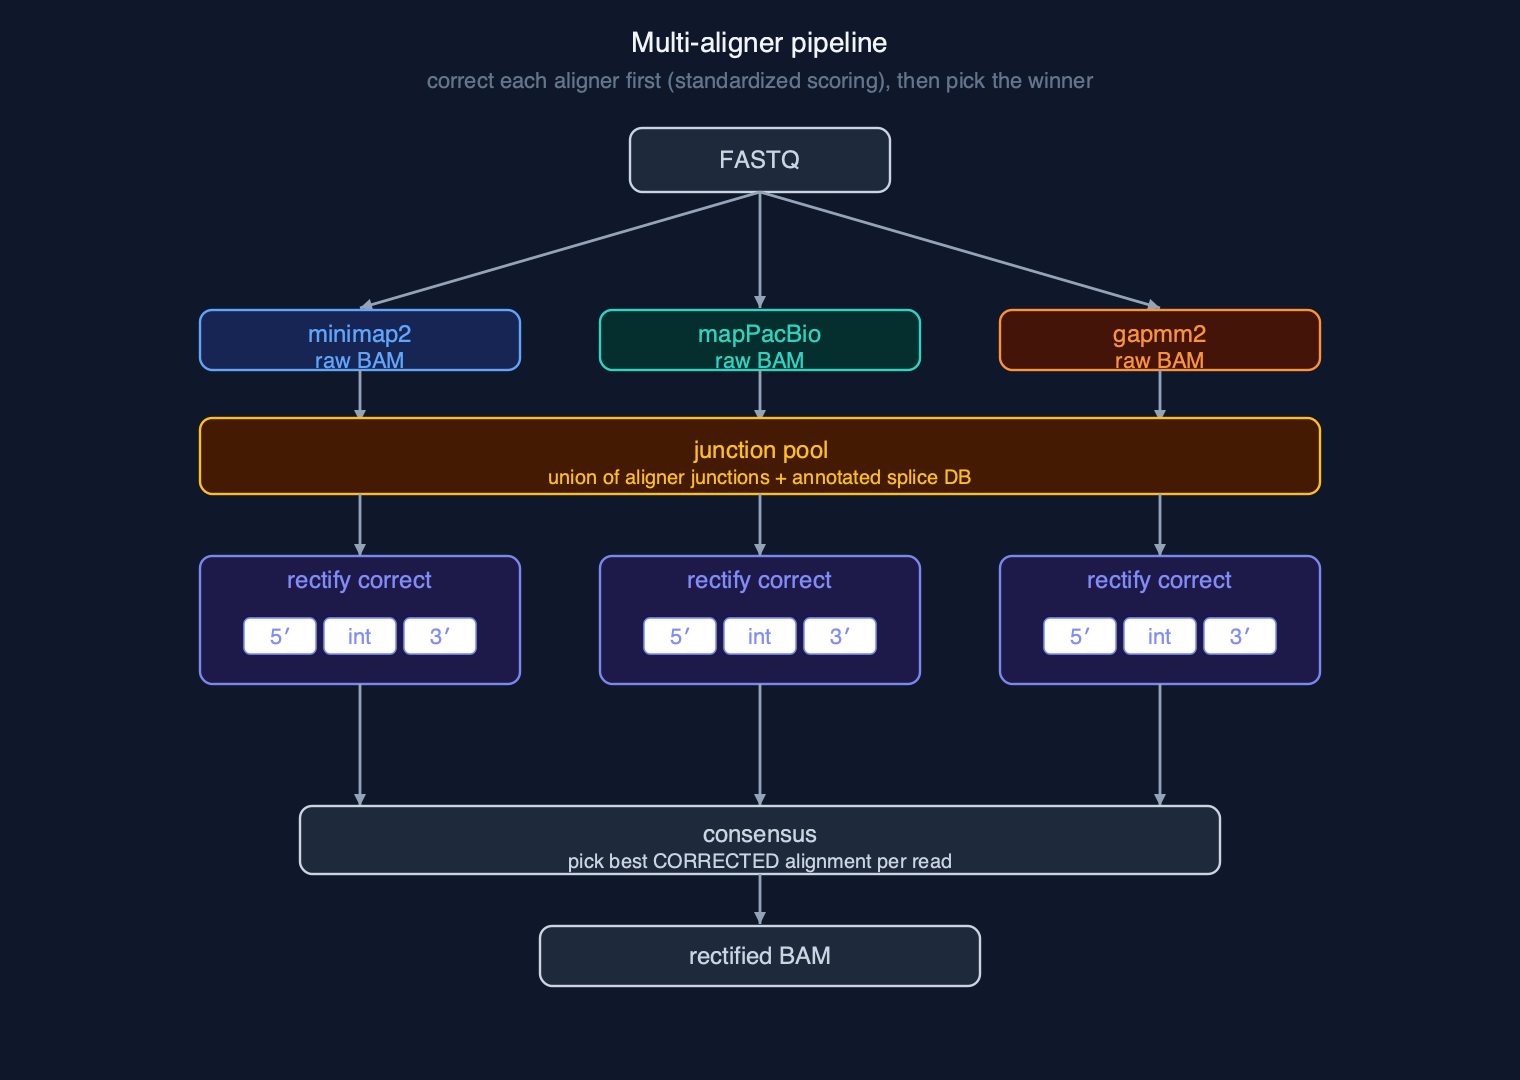
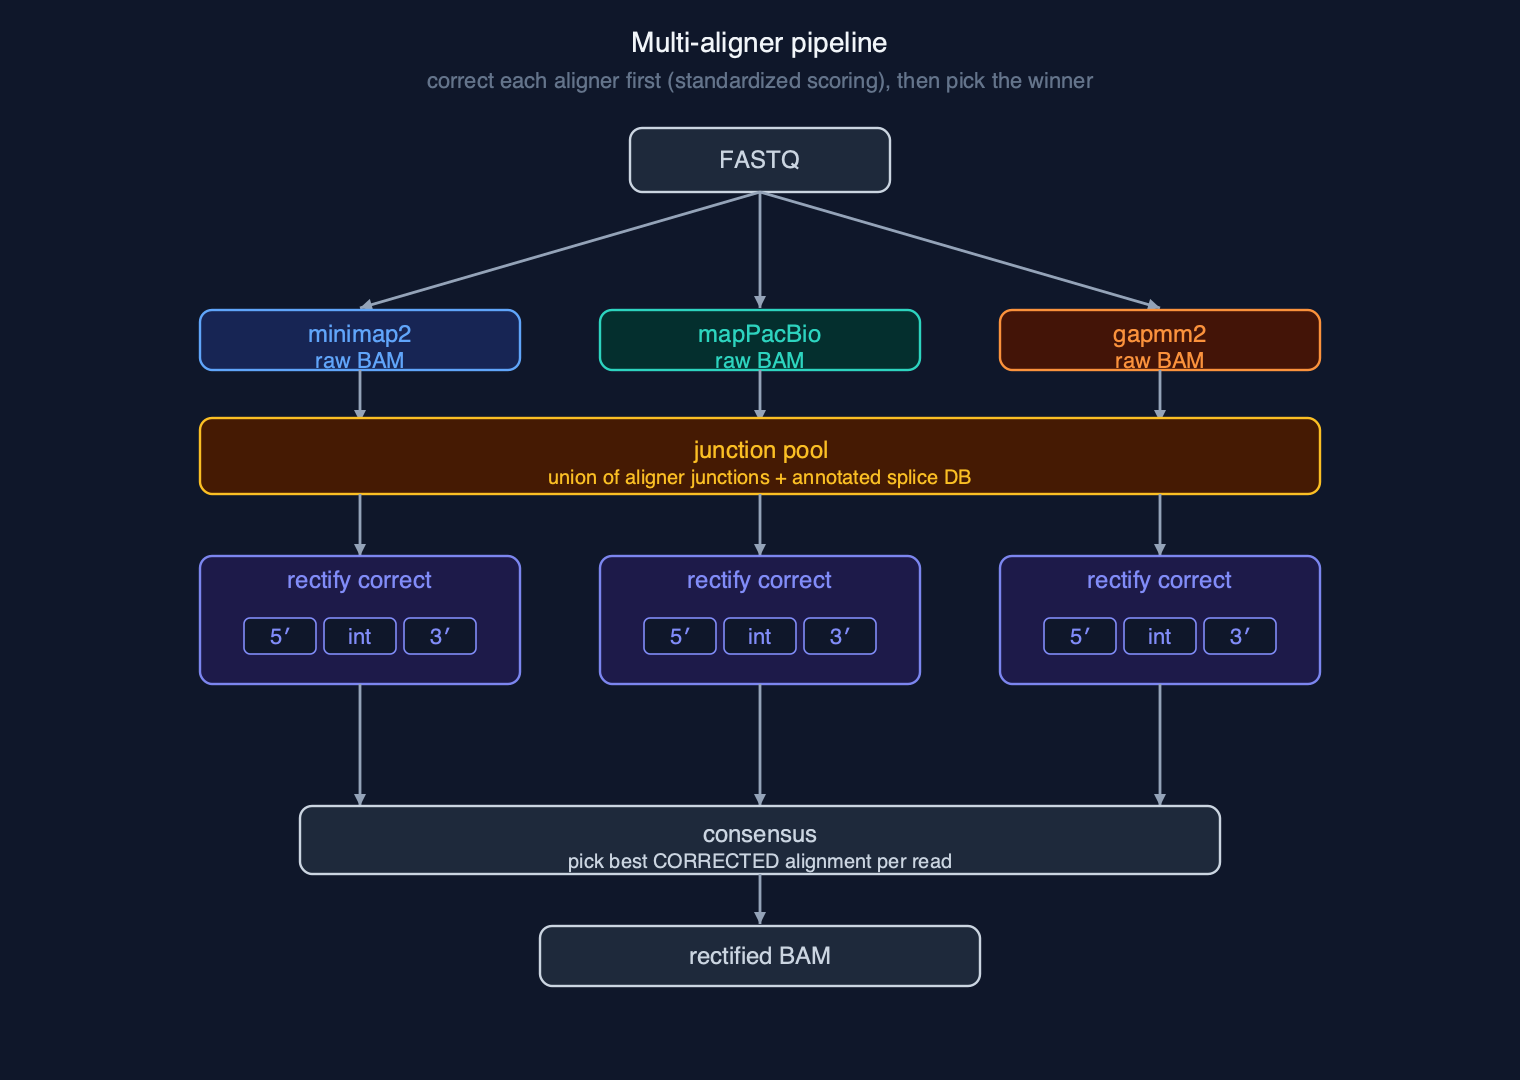
docs(figures): fix hardcoded #ffffff fills in dark-mode figures
polya_pretrim: dashed "cached as soft-clip metadata" block
multi_aligner_consensus: aligner sub-label chip fills
Both now use PAL["bg"] so the dark palette swap catches them.

Changed region(s): [[0.6803, 0.55, 0.8658, 0.6111], [0.402, 0.55, 0.5875, 0.6111], [0.1546, 0.55, 0.3092, 0.6111]]

diff --git a/docs/figures/generate_multi_aligner_v3.py b/docs/figures/generate_multi_aligner_v3.py
@@ -168,7 +168,7 @@ def build():
             sx = x - total_pills_w / 2 + i * (sub_w_each + sub_gap)
             out.append(
                 f'<rect x="{sx}" y="{sub_y - 9}" width="{sub_w_each}" '
-                f'height="18" rx="3" fill="#ffffff" '
+                f'height="18" rx="3" fill="{PAL["bg"]}" '
                 f'stroke="{PAL["indigo"]}" stroke-width="0.8"/>'
             )
             out.append(text(sx + sub_w_each/2, sub_y + 4, lab,

diff --git a/docs/figures/generate_polya_pretrim_v3.py b/docs/figures/generate_polya_pretrim_v3.py
@@ -115,7 +115,7 @@ def build():
     # Cached metadata block — dashed to show it's no longer in the read
     out.append(block(polya_x, y2, polya_w + adapter_w, row_h,
                      "cached as soft-clip metadata",
-                     "#ffffff", PAL["muted"], PAL["muted"], dashed=True))
+                     PAL["bg"], PAL["muted"], PAL["muted"], dashed=True))
 
     out.append(svg_close())
     return "\n".join(out)
